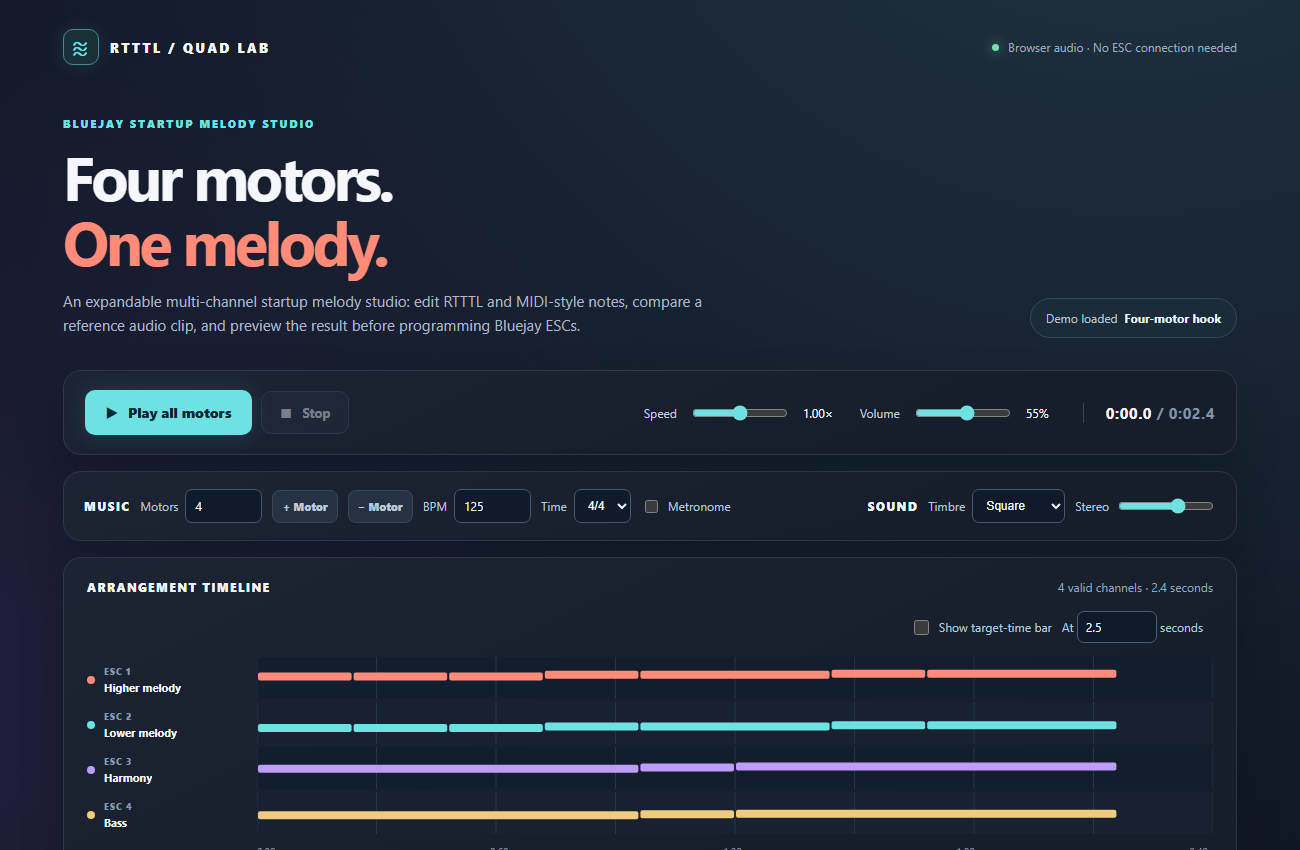
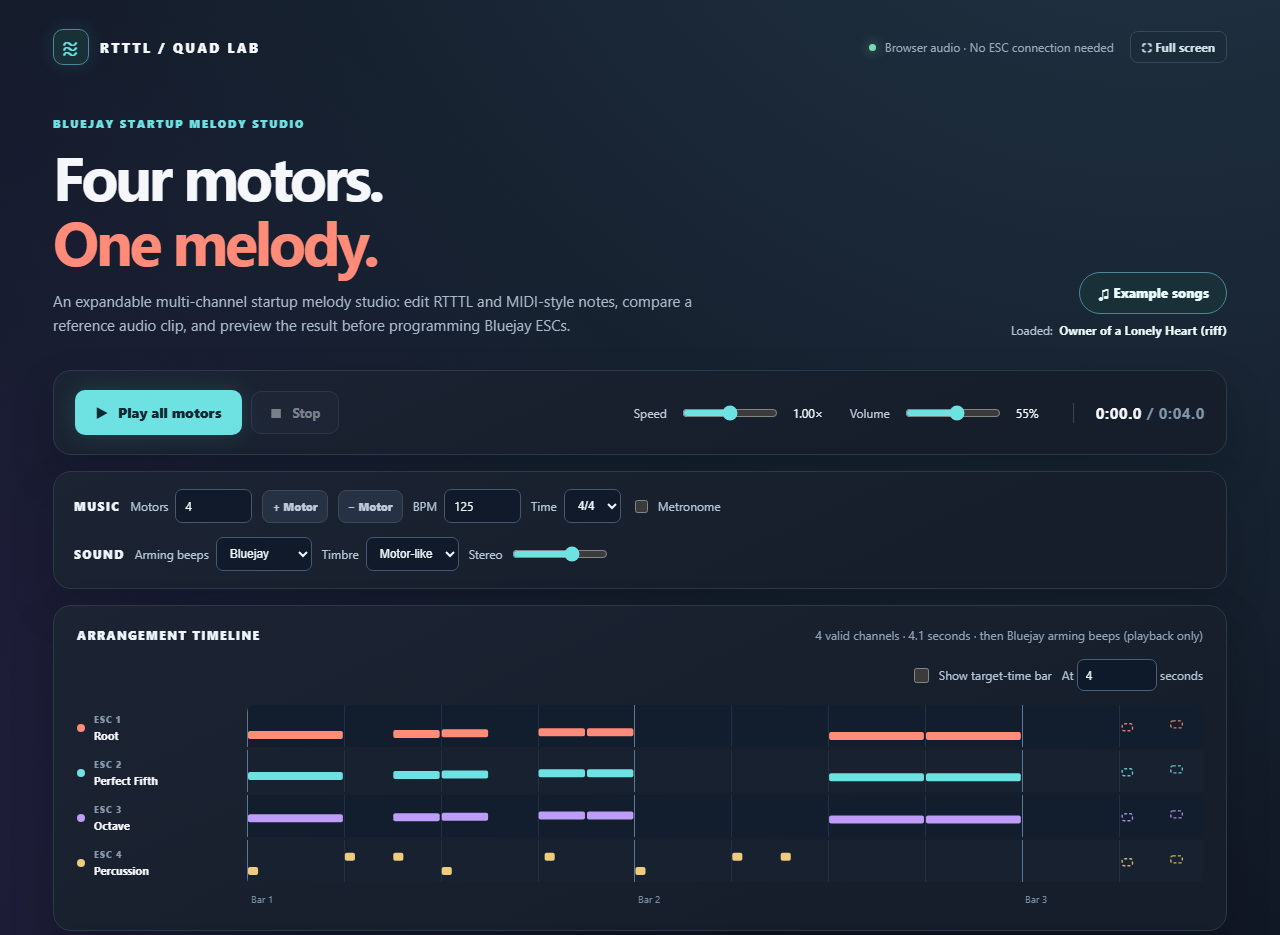
RTTTL Quad Lab page: new screenshots, end-pause and slide stories

diff --git a/_projects/rtttl-quad-lab.md b/_projects/rtttl-quad-lab.md
@@ -16,9 +16,9 @@ skills:
 
 Bluejay ESC firmware can play a startup tune through each motor, and because every ESC takes its own melody, a quad's four motors can play four separate parts at once. The format is RTTTL (the old Nokia ringtone language), each ESC is monophonic, and each melody is capped at about 62 notes and rests. The existing tools preview one RTTTL string at a time, so there was no way to hear a four-motor arrangement before flashing it.
 
-RTTTL Quad Lab fills that gap: a self-contained studio that plays 4 to 12 motor channels in sync, with a piano-roll editor, a one-click library of Bluejay's example songs, MIDI import and export, reference-audio alignment, in-browser pitch detection, and a Bluejay compatibility check. It started as a way to arrange the "Owner of a Lonely Heart" hook for my quad and grew into a general tool. It is plain HTML and JavaScript with no server, so the app below is the real thing, running in your browser.
+RTTTL Quad Lab fills that gap: a self-contained studio that plays 4 to 12 motor channels in sync, with a piano-roll editor, a one-click library of Bluejay's example songs, MIDI import and export, reference-audio alignment, in-browser pitch detection, a preview of the ESCs' arming beeps, and a Bluejay compatibility check. It started as a way to arrange the "Owner of a Lonely Heart" hook for my quad and grew into a general tool. It is plain HTML and JavaScript with no server, so the app below is the real thing, running in your browser.
 
-I set the requirements and directed the design through iterative testing and review, with ChatGPT as the coding assistant. Development now continues in this site's repository.
+I set the requirements and directed the design through iterative testing and review, with ChatGPT as the coding assistant for the first version and Claude Code since development moved into this site's repository.
 
 <div class="app-embed">
   <iframe src="{{ "/apps/rtttl-quad-lab/" | relative_url }}" title="RTTTL Quad Lab, live app" allow="fullscreen" allowfullscreen></iframe>
@@ -42,9 +42,33 @@ The first four-part arrangement repeated the chorus several times and spaced the
 
 That episode set the direction for the editor. Typing durations into RTTTL text is a slow way to fine-tune timing, so the app gained a piano roll where notes can be dragged for pitch and start time and resized for length, kept in two-way sync with each motor's RTTTL string. A target-time marker shows how an arrangement compares against a set duration. The app's current default song, an Owner of a Lonely Heart riff with root, fifth and octave channels plus a fourth channel of short blips used as percussion, was arranged in that piano roll.
 
+<figure>
+  <a class="lightbox-trigger" href="{{ "/assets/img/rtttl-quad-lab/piano-roll.png" | relative_url }}">
+    <img src="{{ "/assets/img/rtttl-quad-lab/piano-roll.png" | relative_url }}" alt="RTTTL Quad Lab piano roll editing the Root channel, with the Perfect Fifth, Octave and Percussion channels overlaid as faded notes on a bar and beat grid">
+  </a>
+  <figcaption>The piano roll editing one ESC with the other three overlaid. Every drag rewrites that motor's RTTTL string.</figcaption>
+</figure>
+
 ## Designing around Bluejay's limits
 
 Every feature has to respect what the ESC can actually play. A per-channel preflight check reports slot use, frequency range, duration and tempo against Bluejay's limits. The 62-note limit turned out to be 62 storage slots, where a long note or rest takes several, so the app now counts slots exactly as ESC Configurator's converter does, checked against every one of Bluejay's example songs. MIDI import maps each MIDI voice to one ESC and keeps it monophonic: overlapping notes are moved later, out-of-range notes are transposed by octaves, tempo changes are flattened to the single BPM an RTTTL string allows, and a voice that would not fit in the 62 slots is rejected rather than silently truncated.
+
+## Making four ESCs finish together
+
+Each ESC plays its own melody and then carries on with its startup on its own clock, so a channel that finishes early starts its arming beeps while the others are still playing. That is real firmware behaviour, and it showed up in the preview as Bluejay beeps cutting into the riff. The fix was to treat the end pause as one song-wide setting: the app finds the channel that makes noise last, works out where the song should end (the next bar, the next quarter bar, or a custom length such as 5 × 1/4), and gives every channel exactly the rest it needs to stop at that moment.
+
+The preview can then play each firmware's arming beeps after the song, for playback only, never written into the RTTTL. Bluejay's two tones and their timing come from its source (the beep routines' timer values give 492 Hz then 662 Hz, about 61 and 67 ms long), AM32's three-note tune from its prescaler values, and BLHeli_32's from its manual, which is the least exact of the three. An optional setting ends the melody just early enough that the first beep lands on the next beat, so the quad's arming chirp sounds like part of the song. The preflight check reports each channel's padding in slots, since a long rest still costs space in the 62.
+
+<figure>
+  <a class="lightbox-trigger" href="{{ "/assets/img/rtttl-quad-lab/tracks-and-preflight.png" | relative_url }}">
+    <img src="{{ "/assets/img/rtttl-quad-lab/tracks-and-preflight.png" | relative_url }}" alt="The four motor tracks with their RTTTL strings, above the Bluejay preflight panel reporting slot use, pitch range and end pause for each ESC">
+  </a>
+  <figcaption>Each motor's RTTTL string, kept in sync with the piano roll, and the preflight check for every ESC.</figcaption>
+</figure>
+
+## Faking a slide on a fixed-tone ESC
+
+A guitar riff often slides between notes, but Bluejay can only play fixed tones. It does play them back to back with no gap, though, so a fast run of short notes one semitone apart sounds close to a slide. The Slide tool builds that run in the space before the next note, using 1/32 or 1/64 steps. When there is not room for every semitone it spreads fewer steps evenly across the interval (A3 to B4 in three quarters of a beat becomes a whole-tone run), and the button shows the slot cost before anything changes. 1/64 steps sound smoother, but ESC Configurator drops 64th notes when it reads a melody back off an ESC, so the preflight check flags them.
 
 ## From a recording to RTTTL
 
